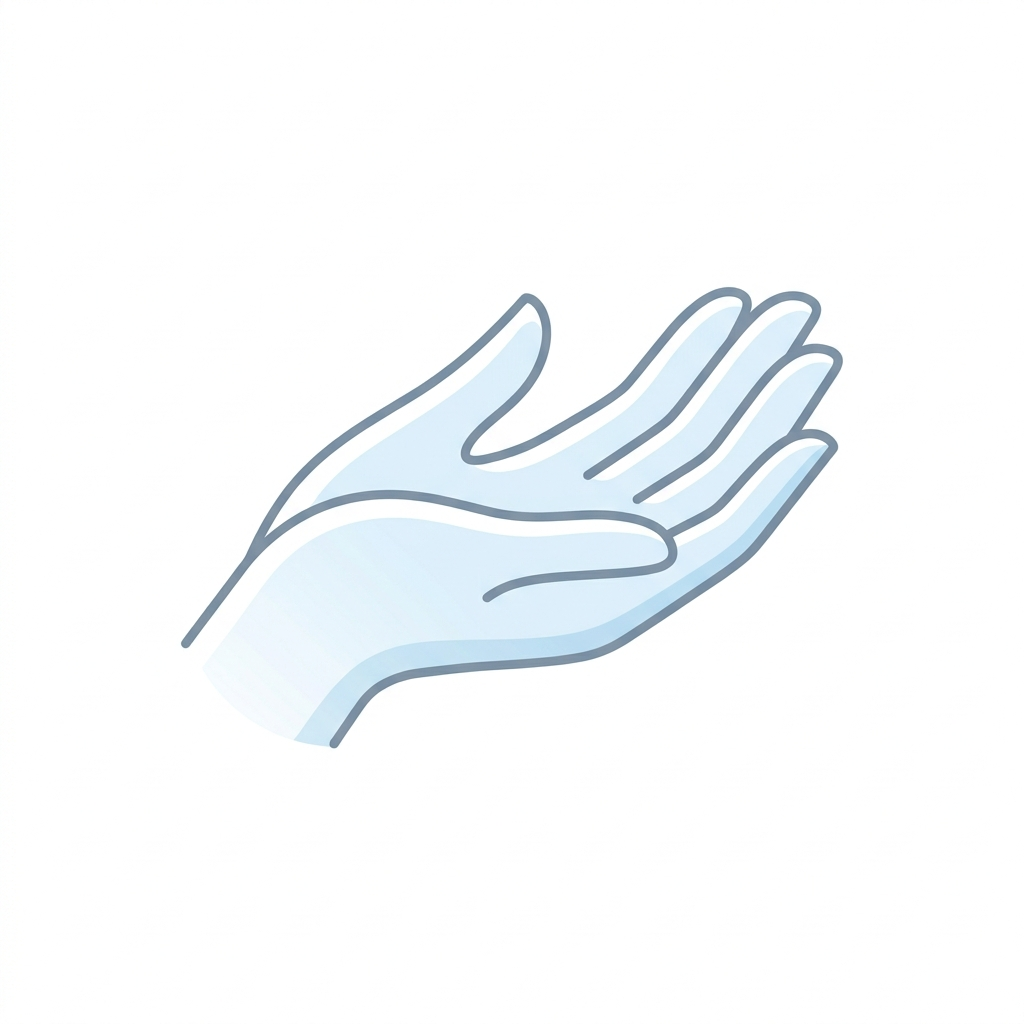
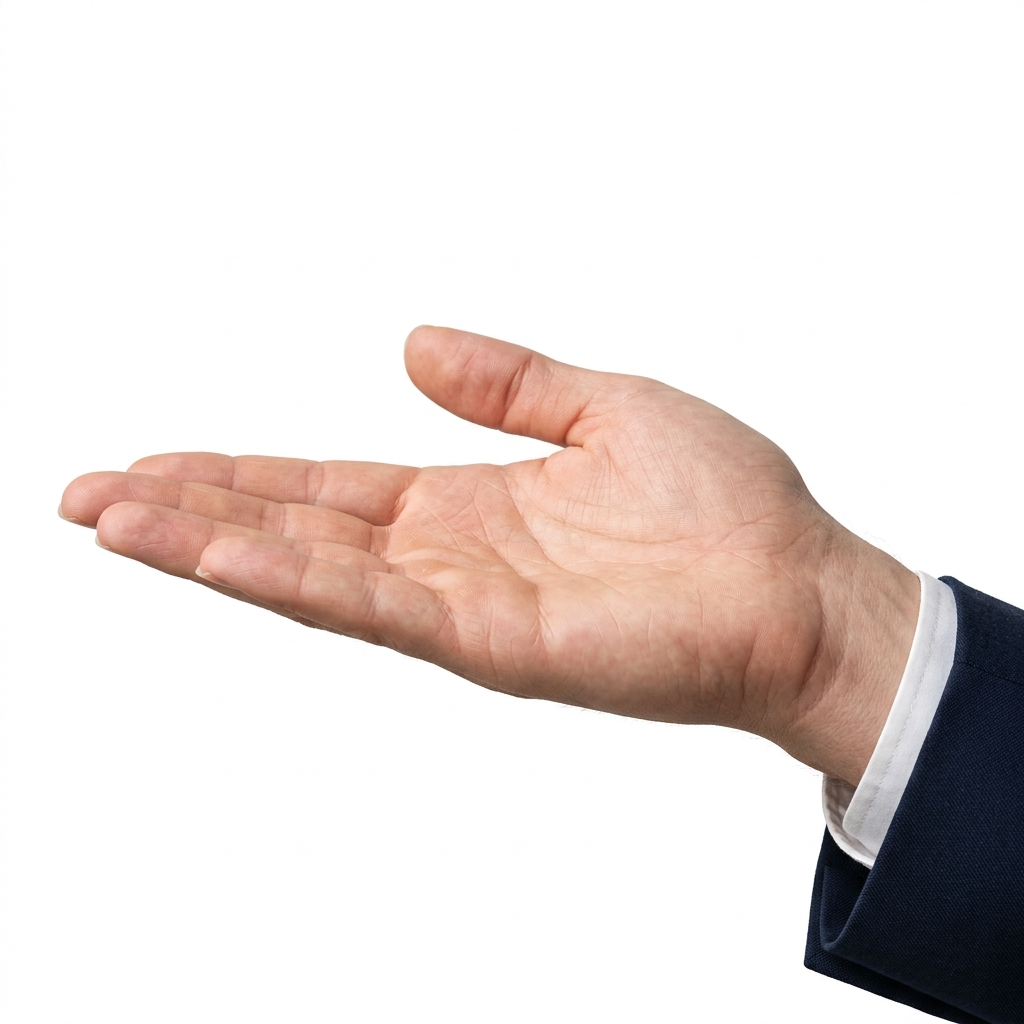
fix(pdf-export): set exact 16:9 widescreen print dimensions to 297mm x 167mm to prevent portrait stretching

Changed region(s): [[0.0625, 0.2812, 1.0, 1.0]]

diff --git a/scratch/apply_print_dimensions.js b/scratch/apply_print_dimensions.js
@@ -1,0 +1,63 @@
+const fs = require('fs');
+const filePath = 'c:\\Users\\Slimpe\\Documents\\Antigravity\\app\\propostas\\nova\\page.tsx';
+let content = fs.readFileSync(filePath, 'utf8');
+
+// Normaliza as quebras de linha para LF
+content = content.replace(/\r\n/g, '\n');
+
+// 1. Substituição do bloco @page (por volta da linha 2310)
+const targetPage = '                         @page {\n                            size: A4 landscape !important;\n                            margin: 0 !important;\n                         }';
+const replacementPage = '                         @page {\n                            size: 297mm 167mm !important;\n                            margin: 0 !important;\n                         }';
+
+if (content.includes(targetPage)) {
+  content = content.split(targetPage).join(replacementPage);
+  console.log('✓ Bloco @page atualizado para 297mm x 167mm!');
+} else {
+  console.log('⚠ Não foi possível localizar o bloco @page exato. Tentando busca tolerante.');
+  const pageRegex = /@page\s*\{\s*size:\s*A4\s+landscape\s*!important;\s*margin:\s*0\s*!important;\s*\}/i;
+  if (pageRegex.test(content)) {
+    content = content.replace(pageRegex, '@page {\n                            size: 297mm 167mm !important;\n                            margin: 0 !important;\n                         }');
+    console.log('✓ Bloco @page atualizado via Regex tolerante!');
+  } else {
+    console.log('⚠ Bloco @page não localizado.');
+  }
+}
+
+// 2. Substituição do bloco .print-slide (por volta da linha 2403)
+const targetSlide = '                         .print-slide {\n                            display: flex !important;\n                            page-break-after: always !important;\n                            break-after: page !important;\n                            page-break-inside: avoid !important;\n                            break-inside: avoid !important;\n                            width: 297mm !important;\n                            height: 210mm !important;\n                            max-height: 210mm !important;\n                            box-sizing: border-box !important;\n                            margin: 0 !important;\n                            padding: 2.5rem 3.5rem !important;\n                            position: relative !important;\n                            overflow: hidden !important;\n                            border: none !important;\n                         }';
+
+const replacementSlide = '                         .print-slide {\n                            display: flex !important;\n                            page-break-after: always !important;\n                            break-after: page !important;\n                            page-break-inside: avoid !important;\n                            break-inside: avoid !important;\n                            width: 297mm !important;\n                            height: 167mm !important;\n                            max-height: 167mm !important;\n                            box-sizing: border-box !important;\n                            margin: 0 !important;\n                            padding: 2.5rem 3.5rem !important;\n                            position: relative !important;\n                            overflow: hidden !important;\n                            border: none !important;\n                         }';
+
+if (content.includes(targetSlide)) {
+  content = content.split(targetSlide).join(replacementSlide);
+  console.log('✓ Bloco .print-slide atualizado para 297mm x 167mm!');
+} else {
+  console.log('⚠ Não foi possível localizar o bloco .print-slide exato. Tentando busca tolerante.');
+  const slideRegex = /\.print-slide\s*\{\s*display:\s*flex\s*!important;[\s\S]*?width:\s*297mm\s*!important;\s*height:\s*210mm\s*!important;[\s\S]*?\}/i;
+  if (slideRegex.test(content)) {
+    content = content.replace(slideRegex, `.print-slide {
+                            display: flex !important;
+                            page-break-after: always !important;
+                            break-after: page !important;
+                            page-break-inside: avoid !important;
+                            break-inside: avoid !important;
+                            width: 297mm !important;
+                            height: 167mm !important;
+                            max-height: 167mm !important;
+                            box-sizing: border-box !important;
+                            margin: 0 !important;
+                            padding: 2.5rem 3.5rem !important;
+                            position: relative !important;
+                            overflow: hidden !important;
+                            border: none !important;
+                         }`);
+    console.log('✓ Bloco .print-slide atualizado via Regex tolerante!');
+  } else {
+    console.log('⚠ Bloco .print-slide não localizado.');
+  }
+}
+
+// Retorna as quebras de linha para CRLF
+content = content.replace(/\n/g, '\r\n');
+fs.writeFileSync(filePath, content, 'utf8');
+console.log('🎉 Operação concluída com sucesso!');

diff --git a/scratch/apply_hand_support_position.js b/scratch/apply_hand_support_position.js
@@ -1,0 +1,43 @@
+const fs = require('fs');
+const filePath = 'c:\\Users\\Slimpe\\Documents\\Antigravity\\app\\propostas\\nova\\page.tsx';
+let content = fs.readFileSync(filePath, 'utf8');
+
+// Normaliza quebras de linha para LF
+let lines = content.replace(/\r\n/g, '\n').split('\n');
+
+let occurrences = [];
+for (let i = 0; i < lines.length; i++) {
+  if (lines[i].includes('src="/hand-support.png"')) {
+    occurrences.push(i);
+  }
+}
+
+console.log('Ocorrências da imagem da mão encontradas nas linhas (0-indexed):', occurrences);
+
+if (occurrences.length === 2) {
+  // Para cada ocorrência, a linha subsequente ou próxima (com a classe) precisa ser alterada.
+  // A linha idx + 2 contém a classe: className="absolute bottom-0 left-1/2 -translate-x-1/2 w-[240px] h-auto pointer-events-none opacity-60 z-0"
+  for (let idx of occurrences) {
+    let classLineIdx = -1;
+    for (let k = idx; k < idx + 5; k++) {
+      if (lines[k] && lines[k].includes('className="absolute bottom-0 left-1/2')) {
+        classLineIdx = k;
+        break;
+      }
+    }
+    
+    if (classLineIdx !== -1) {
+      console.log(`Atualizando classe da mão na linha ${classLineIdx + 1}`);
+      const indent = lines[classLineIdx].match(/^\s*/)[0];
+      lines[classLineIdx] = `${indent}className="absolute right-0 bottom-0 w-[440px] h-auto pointer-events-none opacity-95 z-0 mix-blend-multiply"`;
+    } else {
+      console.log(`⚠ Não foi possível localizar a linha de classe para a ocorrência na linha ${idx + 1}`);
+    }
+  }
+  
+  // Salva o arquivo de volta com quebras de linha CRLF
+  fs.writeFileSync(filePath, lines.join('\r\n'), 'utf8');
+  console.log('🎉 Posicionamento e mesclagem aplicados com sucesso absoluto!');
+} else {
+  console.log(`⚠ Esperava encontrar exatamente 2 ocorrências da imagem da mão, mas encontrei ${occurrences.length}.`);
+}

diff --git a/app/propostas/nova/page.tsx b/app/propostas/nova/page.tsx
@@ -2308,9 +2308,9 @@ function PropostaEditor() {
                      }
                      @media print {
                         @page {
-                           size: A4 landscape !important;
-                           margin: 0 !important;
-                        }
+                            size: 297mm 167mm !important;
+                            margin: 0 !important;
+                         }
                         
                         * {
                            -webkit-print-color-adjust: exact !important;
@@ -2401,21 +2401,21 @@ function PropostaEditor() {
                         }
 
                         .print-slide {
-                           display: flex !important;
-                           page-break-after: always !important;
-                           break-after: page !important;
-                           page-break-inside: avoid !important;
-                           break-inside: avoid !important;
-                           width: 297mm !important;
-                           height: 210mm !important;
-                           max-height: 210mm !important;
-                           box-sizing: border-box !important;
-                           margin: 0 !important;
-                           padding: 2.5rem 3.5rem !important;
-                           position: relative !important;
-                           overflow: hidden !important;
-                           border: none !important;
-                        }
+                            display: flex !important;
+                            page-break-after: always !important;
+                            break-after: page !important;
+                            page-break-inside: avoid !important;
+                            break-inside: avoid !important;
+                            width: 297mm !important;
+                            height: 167mm !important;
+                            max-height: 167mm !important;
+                            box-sizing: border-box !important;
+                            margin: 0 !important;
+                            padding: 2.5rem 3.5rem !important;
+                            position: relative !important;
+                            overflow: hidden !important;
+                            border: none !important;
+                         }
 
                         /* FORÇAR RENDERIZAÇÃO DE CORES DE FUNDO EXPLICITAMENTE */
                         .print-slide.bg-[#1e4480], .print-slide[class*="bg-[#1e4480]"] {
@@ -2735,7 +2735,7 @@ function PropostaEditor() {
                                         <img 
                                            src="/hand-support.png" 
                                            alt="Mão de suporte"
-                                           className="absolute bottom-0 left-1/2 -translate-x-1/2 w-[240px] h-auto pointer-events-none opacity-60 z-0" 
+                                           className="absolute right-0 bottom-0 w-[440px] h-auto pointer-events-none opacity-95 z-0 mix-blend-multiply"
                                         />
                                         <div className="absolute top-0 left-1/2 -translate-x-1/2 flex items-center justify-center w-20 h-20 rounded-full bg-[#1e4480] text-white shadow-2xl">
                                            <Trophy size={36} className="text-white shrink-0" />
@@ -5047,7 +5047,7 @@ function PropostaEditor() {
                                   <img 
                                      src="/hand-support.png" 
                                      alt="Mão de suporte"
-                                     className="absolute bottom-0 left-1/2 -translate-x-1/2 w-[240px] h-auto pointer-events-none opacity-60 z-0" 
+                                     className="absolute right-0 bottom-0 w-[440px] h-auto pointer-events-none opacity-95 z-0 mix-blend-multiply"
                                   />
                                   <div className="absolute top-0 left-1/2 -translate-x-1/2 flex items-center justify-center w-20 h-20 rounded-full bg-[#1e4480] text-white shadow-2xl">
                                      <Trophy size={36} className="text-white shrink-0" />